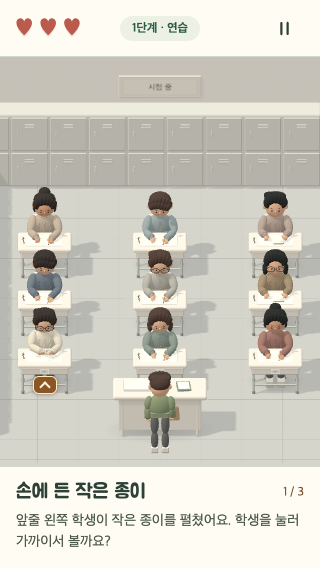
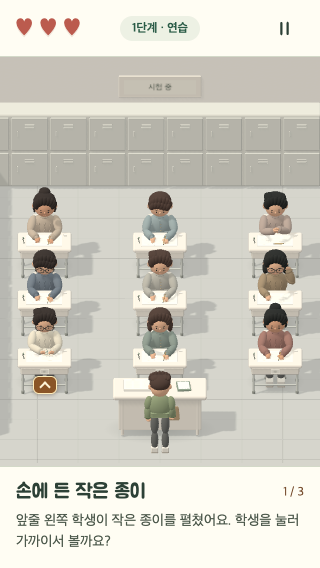
🎨 Keep the classroom steady when the cue appears

diff --git a/tests/campaign-flow.js b/tests/campaign-flow.js
@@ -58,6 +58,7 @@ try {
     assert.equal(await page.locator('#time').count(), 0);
     assert.equal(await page.locator('.desk-cue').count(), 0);
     assert.equal(await page.locator('#seat-targets button:enabled').count(), 0);
+    const opening = await page.locator('#room').boundingBox();
     await advance(2400);
     await tap('[data-action=pause]');
     await advance(4000);
@@ -68,6 +69,7 @@ try {
     await advance(1000);
     assert.equal(await page.locator('#seat-targets button:enabled').count(), 1);
     assert.ok(await page.locator('.desk-cue').isVisible());
+    assert.deepEqual(await page.locator('#room').boundingBox(), opening);
     const target = new Exam(42, 1).seats;
     if (verify) {
       await page.clock.fastForward(120000);

diff --git a/src/style.css b/src/style.css
@@ -450,6 +450,9 @@ h2 {
   line-height: 1.5;
   word-break: keep-all;
 }
+.tutorial:not(.inspecting) .tutorial-panel p {
+  min-height: 3em;
+}
 .tutorial-actions {
   display: grid;
   grid-template-columns: 68px minmax(0, 1fr);

diff --git a/docs/quality/current-review.md b/docs/quality/current-review.md
@@ -8,9 +8,11 @@
 
 기준은 `7bd59b4` 위의 튜토리얼 변경이다. Chrome과 Vite `127.0.0.1:5183`을 사용했다. 개발 검증은 운영 GA 전송을 사용하지 않았다.
 
-- 단위 테스트 41개, 빌드, `test:campaign`, `test:browser`, `test:assets` 통과. 단위 테스트에서 일상 행동, 수험표와 쪽지 노출, 확대 관찰 중 종이 유지와 도움 완료를 확인했다. 고정 배치와 제어된 시계로 첫 5초 동안 화살표가 없는 상태, 일시정지 후 시작 시각, 화살표 직접 터치, 나란한 버튼, 2~5단계 진행·재도전을 검사했다. 기존 Three.js 청크 크기 경고는 남아 있다.
+- 단위 테스트 41개, 빌드, `test:campaign`, `test:browser`, `test:assets` 통과. 단위 테스트에서 일상 행동, 수험표와 쪽지 노출, 확대 관찰 중 종이 유지와 도움 완료를 확인했다. 고정 배치와 제어된 시계로 첫 5초 동안 화살표가 없는 상태, 일시정지 후 시작 시각, 화살표 직접 터치, 표시 전후 교실 높이 유지, 나란한 버튼, 2~5단계 진행·재도전을 검사했다. 기존 Three.js 청크 크기 경고는 남아 있다.
 - Chrome에서 시간을 제어하지 않고 직접 조작했다. 320×568 도입부와 화살표·신고, 1167×813 수험표, 568×320 오인 반응·손 든 학생·답안지 전달과 2단계 진입을 확인했다. 화살표와 학생 대사가 겹치지 않고, 관찰 조작부가 얼굴과 손을 가리지 않는지 검토했다. [도입](../playtest/tutorial-intro/intro-320x568.png) · [화살표](../playtest/tutorial-intro/cue-320x568.png) · [신고](../playtest/tutorial-intro/note-320x568.png) · [가로 도움](../playtest/tutorial-intro/help-568x320.png)
 - 실기기에서의 동작 가독성과 처음 보는 플레이어가 자연스러운 행동과 부정행위 단서를 구별하는지는 확인이 필요하다.
+
+공개 배포 `70ea00af192e`에서 Chrome 터치 에뮬레이션 320×568과 568×320으로 표시 없는 도입, 책상 아래 화살표 조작과 신고·도움 버튼 정렬, 2단계 진입을 확인했다. 페이지 오류 없이 시작·완료 이벤트의 빌드 버전을 확인했고 운영 GA 전송은 차단했다. 정적 공유 HTML·JPEG 10종도 확인했다. [배포 기록](../engineering/sharing-and-deployment.md#튜토리얼-도입부-배포--2026-11-20)
 
 ## 1단계 튜토리얼 (2026-11-20)
 

diff --git a/docs/product/game-design.md b/docs/product/game-design.md
@@ -12,7 +12,7 @@
 2. 비슷한 종이를 든 다른 학생의 수험번호와 사진을 살핀다. 연습 신고로 정상 학생을 오인했을 때의 대사와 생명 1개 감소를 체험한다.
 3. 손을 든 학생에게 다가가 ‘새 답안지 건네기’를 누른다. 전달이 끝나면 연습을 마치고 ‘2단계 시험 시작’으로 이어진다.
 
-시간제한과 요청 마감이 없다. 교실 전체 화면에서는 두 학생이 종이를 펼쳤다가 다시 내려놓는다. 가까이 관찰하는 동안에는 내용을 읽을 수 있도록 계속 펼쳐 둔다. 안내와 조작은 한 영역에 배치하고, 관찰 화면의 교실 복귀와 신고·도움 버튼을 같은 줄에 둔다. ‘‹ 교실’이나 학생 화면을 눌러 관찰을 끝내고 같은 연습을 계속할 수 있다. 로비에서 1단계를 다시 선택하면 처음부터 연습한다. 하루 재도전 기회 0회에도 튜토리얼을 할 수 있다. 완료하면 2단계가 열리고 시험 성적에는 연습을 저장하지 않는다. 이전에 해제한 단계와 시험 기록을 보존한다.
+시간제한과 요청 마감이 없다. 교실 전체 화면에서는 두 학생이 종이를 펼쳤다가 다시 내려놓는다. 가까이 관찰하는 동안에는 내용을 읽을 수 있도록 계속 펼쳐 둔다. 안내와 조작은 한 영역에 배치한다. 첫 화살표가 나타날 때 교실 구도가 움직이지 않도록 안내 문구 두 줄에 해당하는 높이를 확보한다. 관찰 화면의 교실 복귀와 신고·도움 버튼을 같은 줄에 둔다. ‘‹ 교실’이나 학생 화면을 눌러 관찰을 끝내고 같은 연습을 계속할 수 있다. 로비에서 1단계를 다시 선택하면 처음부터 연습한다. 하루 재도전 기회 0회에도 튜토리얼을 할 수 있다. 완료하면 2단계가 열리고 시험 성적에는 연습을 저장하지 않는다. 이전에 해제한 단계와 시험 기록을 보존한다.
 
 ## 관찰과 판단
 

diff --git a/docs/engineering/sharing-and-deployment.md b/docs/engineering/sharing-and-deployment.md
@@ -1,6 +1,6 @@
 # 공유와 배포
 
-상태: 운영 기록 · 마지막 기능 배포 확인: 2026-11-20, `e0d75eb`
+상태: 운영 기록 · 마지막 기능 배포 확인: 2026-11-20, `70ea00a`
 
 [문서 홈](../README.md) · [개발 안내](development.md) · [미검증 항목](../quality/open-questions.md)
 
@@ -16,6 +16,10 @@
 | 배포 방식 | GitHub `main` 푸시에 연결된 프로덕션 자동 배포 |
 
 `6c613d0`의 배포가 READY가 된 것과 공개 별칭에 연결된 것을 확인했다. 이는 당시 확인 기록이다. 이후 변경을 배포할 때는 현재 배포 커밋과 상태를 다시 확인한다. 일회성 배포 주소보다 위 공개 주소를 공유·대표 주소로 사용한다.
+
+## 튜토리얼 도입부 배포 — 2026-11-20
+
+`main`의 기능 커밋 `70ea00af192e1b92f55e213c7559f49d7fe68ba9`가 Vercel 프로덕션 배포 `dpl_FXxeMkG2p8pY9Cnf2vQozSTJnaa9`에서 READY가 됐다. 빌드는 약 8.8초였고 `cat-hunting.vercel.app`에서 표시 없는 도입부, 화살표 터치, 관찰 조작과 2단계 진입을 확인했다. 기존 공유 HTML·JPEG 10종이 응답했다. 운영 GA 전송은 차단했다. [검증 기록](../quality/current-review.md#튜토리얼-도입부와-화면-정리-2026-11-20)
 
 ## 1단계 튜토리얼 배포 — 2026-11-20
 
